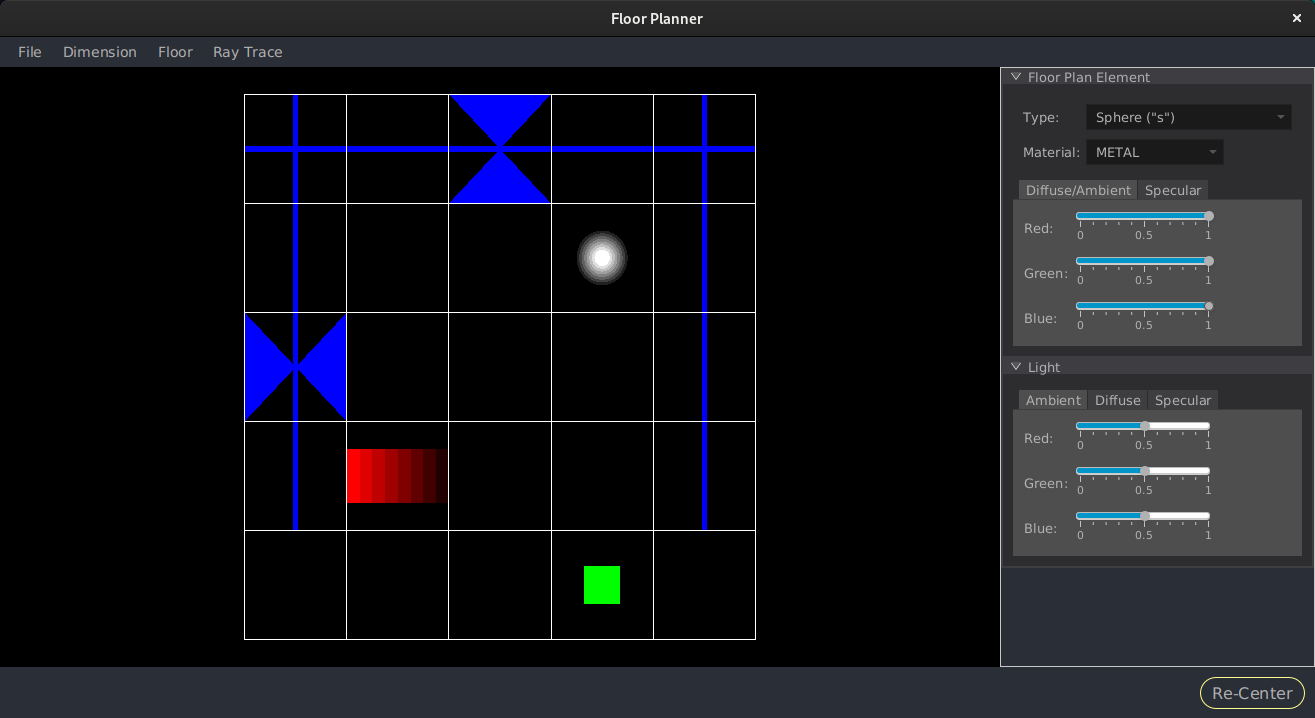
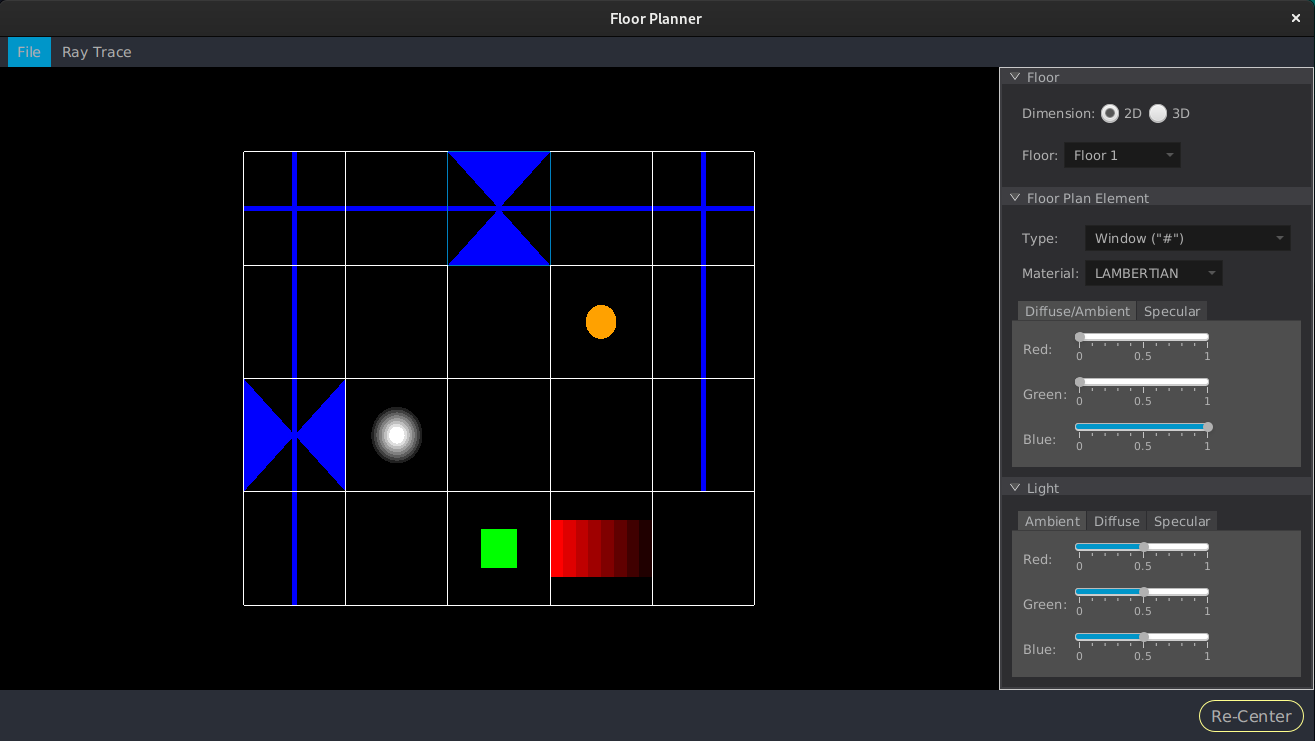
chore: update readme and images
Add more details to readme, and update images to show new UI layout.

diff --git a/README.md b/README.md
@@ -20,6 +20,12 @@ The application is written using Java 17 and JOGL. The user interface is develop
 * JavaFX version 17.0.9
 * JOGL version 2.5.0
 
+### Optional Software
+
+I utilize [SDKMAN!](https://sdkman.io) in my development environment for managing different versions of SDKs. I have included a `.sdkmanrc` file in the repo, so if you have SDKMAN! installed and have Java version 17.0.9-oracle installed, then you can run `sdk env` at the root of the application to initialize the correct Java version for the app (assuming this is not the default version of Java you are using in your environment).
+
+## Ray Tracer
+
 The ray trace code is based on the [_Ray Tracing in One Weekend_](https://raytracing.github.io/books/RayTracingInOneWeekend.html) series. I worked through each of the books and implemented most of the functionality from there. I did skip some of the features contained in the book, like motion and volumes (i.e. smoke and fog) since these are not needed in the floor plan. Some of the worlds used in the series are available to generate from the "Ray Tracer" menu item. Selecting anything other than "3D Rendering" will generate the corresponding ray traced image from the series.
 
 > NOTE: This application was developed and tested on RHEL 9, and as such I've only included native JOGL files needed for linux. I do not expect this application to work as is on Windows or Mac since I have not included the native JOGL files needed for those operating systems.
@@ -34,13 +40,15 @@ Users can create new or load existing floor plans using the corresponding option
 
 ### 2D View
 
-The initial view of a floor plan (after one is created or loaded) will display a grid in 2D of the first floor (or the only floor if the plan is just 1 floor). When in 2D users can click any cell in the grid to change the element type in that cell as well as the material type using the corresponding drop down fields in the top right corner of the screen.
+The initial view of a floor plan (after one is created or loaded) will display a grid in 2D of the first floor (or the only floor if the plan is just 1 floor). When in 2D users can click any cell in the grid to change the element type in that cell as well as the material type using the corresponding drop down fields in the top right corner of the screen. The selected cell in the grid will "highlight" blue (instead of the default white).
+
+If there is more than 1 floor, users can switch between floors using the `Floor` drop down menu in the `Floor` panel on the right side of the app.
 
 > NOTE: Changing the material type will only effect the ray traced image.
 
 ### 3D View
 
-To switch between 2D and 3D simply click the corresponding option in the `Dimensions` menu. Once in 3D users can move around in the floor plan using the arrow buttons on their keyboard. They can also change the angle (up/down) of movement using the `pg up` and `pg dn` buttons. There is a `Re-Center` button which will bring the user back to the "bottom" of the floor plan.
+To switch between 2D and 3D simply click the corresponding radio button in the `Floor` panel on the right side of the app. Once in 3D users can move around in the floor plan using the arrow buttons on their keyboard. They can also change the angle (up/down) of movement using the `pg up` and `pg dn` buttons. There is a `Re-Center` button which will bring the user back to the "bottom" of the floor plan.
 
 ### Color and Lighting
 
@@ -130,6 +138,6 @@ The `util` directory is further broken down to separate out classes associated w
 
 ## Acknowledgements
 
-This project has been a long time coming (in the sense that I've been meaning to work on it for a while now). The original project this was based on was probably one of the hardest programming challenges I tackled. I never got the original program working 100%, and that has plagued me over the years, which is why I've wanted to take up the challenge again and make a better version. Not to try to get credit for it, but for my own satisfaction. While this project is still not perfect (there are definitely still some bugs), it is far better than the original one I submitted. I am much happier with the GUI layout, the functionality, structure, and overall code.
+This project has been a long time coming (in the sense that I've been meaning to work on it for a while now). The original project this was based on was probably one of the hardest programming challenges I tackled at the time. I never got the original program working 100%, and that has plagued me over the years, which is why I've wanted to take up the challenge again and make a better version. Not to try to get credit for it, but for my own satisfaction. While this project is still not perfect (there are definitely still some bugs), it is far better than the original one I submitted. I am much happier with the GUI layout, the functionality, structure, and overall code.
 
 Also, I'm pretty sure I would never have completed the ray tracing portion of the project had I not stumbled upon the [_Ray Tracing in One Weekend Series_](https://raytracing.github.io/). That was an invaluable resource with great explanations and full code examples. I did have to translate the code from C++ to Java, which was somewhat painful as it's been over 20 years since I've looked at any C++ code. But since the original project I wrote was in Java, I felt the need to re-write it in Java again. Big thanks to the authors of the series though, for making a great set of books, and for making them free and available to all!
